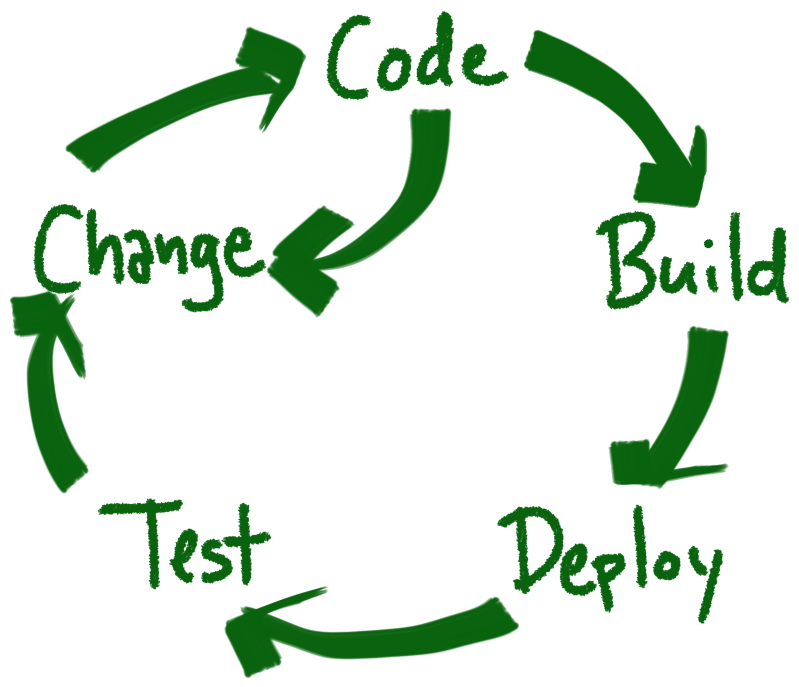
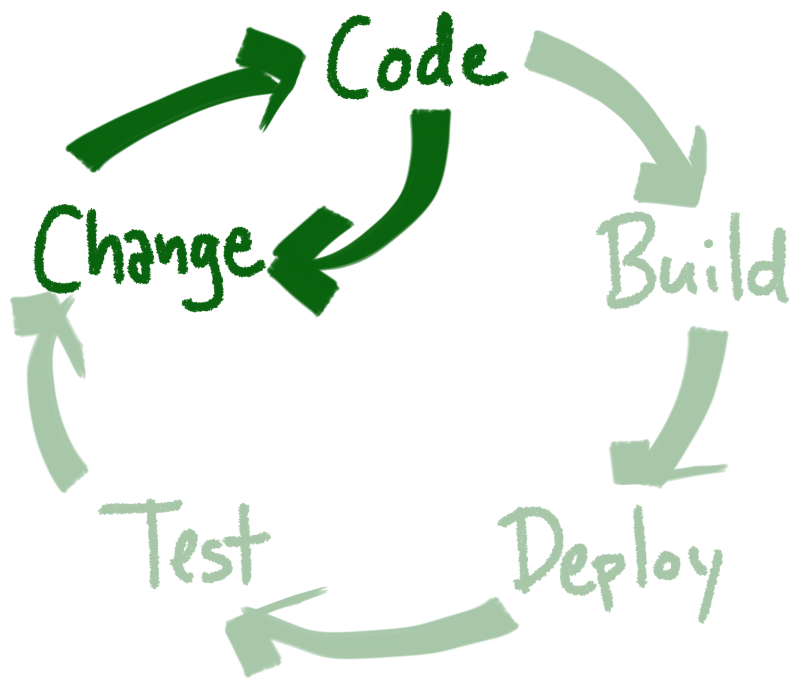
make loops look not awful

diff --git a/src/slides/02_feedback-loops.md b/src/slides/02_feedback-loops.md
@@ -5,10 +5,11 @@ class: title
 # Feedback Loops
 
 ---
-background-image: url(images/loops/general.png)
+class: loop
 
 # What is a feedback loop?
 
+![Feedback Loop](images/loops/general.png)
 ???
 Definition: blah blah blah you put an action in, see the effect, and keep doing that.
 
@@ -22,9 +23,11 @@ background-image: url(images/thermostat.jpg)
 The canonical example of a feedback loop is a thermostat.
 
 ---
-background-image: url(images/loops/thermostat.png)
+class: loop
 
 # The Thermostat
+
+![Thermostat](images/loops/thermostat.png)
 
 ???
 
@@ -38,9 +41,11 @@ background-image: url(images/kriskross.jpg)
 
 # Warm It Up Kris
 ---
-background-image: url(images/loops/thermostat.png)
+class: loop
 
 # The Thermostat
+
+![Thermostat](images/loops/thermostat.png)
 
 ???
 
@@ -55,9 +60,11 @@ background-image: url(images/vanilla-ice.jpg)
 # Stop! 
 
 ---
-background-image: url(images/loops/thermostat.png)
+class: loop
 
 # The Thermostat
+
+![Thermostat](images/loops/thermostat.png)
 
 ???
 
@@ -94,9 +101,11 @@ Maybe you don't recognize it by name, but you probably recognize it as the mecha
 that changes the gears on your bike when you click a button on the handlebars.
 
 ---
-background-image: url(images/loops/bike-general.png)
+class: loop
 
 # The bike tuning feedback loop
+
+![Thermostat](images/loops/bike-general.png)
 
 ???
 
@@ -105,9 +114,11 @@ To tune the derailleurs on your bike, there is a feedback loop.
 Simplified, it looks like this. 
  
 ---
-background-image: url(images/loops/bike-really.png)
+class: loop
 
 # The bike tuning feedback loop
+
+![Bike Loop](images/loops/bike-really.png)
 
 ???
 
@@ -116,9 +127,11 @@ A little less simplified, this is the loop.
 You turn a screw a quarter turn, and then you ride the bike 20 feet to see if everything is lined up.
  
 ---
-background-image: url(images/loops/bike-bad.png)
+class: loop
 
 # The bike tuning feedback loop
+
+![Bad](images/loops/bike-bad.png)
 
 ???
 
@@ -133,9 +146,11 @@ And if I get it back and find that it still doesn't shift well, I have to take i
 This is a loose, slow feedback loop.
 
 ---
-background-image: url(images/loops/bike-better.png)
+class: loop
 
 # The bike tuning feedback loop
+
+![Better](images/loops/bike-better.png)
 
 ???
 
@@ -150,9 +165,11 @@ Here, I see the results of each tuning in a much shorter time.
 But I still have to take my bike over to my neighbors house each cycle through the loop. 
 
 ---
-background-image: url(images/loops/bike-best.png)
+class: loop
 
 # The bike tuning feedback loop
+
+![Best!](images/loops/bike-best.png)
 
 ???
 
@@ -180,9 +197,11 @@ The tighter the loop, the quicker the feedback/your ability to react
 There are a couple of ways to do this.
 
 ---
-background-image: url(images/loops/bike-bad.png)
+class: loop
 
 # Tightening the Loop
+
+![Bad!](images/loops/bike-bad.png)
 
 todo - animate this to go from bigger to smaller.
 
@@ -193,9 +212,11 @@ One way is to make the arrows in the loop shorter.
 In my bike example, it meant eliminating trips to the bike shop or neighbors house.
 
 ---
-background-image: url(images/loops/dev-qa.png)
+class: loop
 
 # The Developer-QE feedback loop
+
+![Dev-QA Loop](images/loops/dev-qa.png)
 
 ???
 

diff --git a/src/slides/05_outro.md b/src/slides/05_outro.md
@@ -63,12 +63,12 @@ so the build server can actually do stuff
 ---
 class: title
 
-# Go grab a CI server and play around
+# Grab a CI server and play around
 
 ---
 class: title
 
-# Start the conversaton
+# Start the conversation
 
 ???
 
@@ -81,3 +81,30 @@ talk about the potential gains in investing someone's time
 
 ## TODO Links to free CI things
 
+---
+
+class: title
+
+# Thank you!
+
+
+.col.col-1[
+]
+
+
+.col.col-4.about[
+## Steven Hicks
+### <i class="el el-twitter"></i>  @pepopowitz
+### <i class="el el-globe-alt"></i>  pepopowitz.github.io
+### <i class="el el-envelope"></i>  steven.hicks@centare.com
+]
+
+.col.col-1[
+]
+
+.col.col-4.about[
+## Tyler Evert
+### <i class="el el-twitter"></i>  @TylerDoesDevOps
+### <i class="el el-globe-alt"></i>  thefoxgang.com
+### <i class="el el-envelope"></i>  tyler.evert@centare.com
+]

diff --git a/src/slides/04_devops.md b/src/slides/04_devops.md
@@ -17,7 +17,7 @@ The Three Ways, by Gene Kim
 Draw picture, basically this: http://itrevolution.com/the-three-ways-principles-underpinning-devops/
 
 ---
-class: full-screen-image
+class: full-screen-image, left-align
 background-image: url(images/startrek.png)
 
 # So what is it _really_?
@@ -47,9 +47,11 @@ Example: Intuit running turbotax experiments in production during tax season
 We've made the loop much longer, but we still want it to be fast. Enter automation....
 
 ---
-background-image: url(images/loops/devops.png)
+class: loop
 
 # The DevOps feedback loop
+
+![DevOps Loop](images/loops/devops.png)
 
 ???
 

diff --git a/src/slides/03_tdd.md b/src/slides/03_tdd.md
@@ -1,7 +1,9 @@
 ---
-background-image: url(images/loops/dev-qa.png)
+class: loop
 
 # The Developer-QE feedback loop
+
+![Dev-QA Loop](images/loops/dev-qa.png)
 
 ???
 
@@ -10,11 +12,11 @@ Here's our first suggestion.
 What if we told you there was a shortcut on this loop?
 
 ---
-background-image: url(images/loops/tdd-shortcut.png)
+class: loop
 
 # The Developer-QE feedback loop
 
-TODO - animate most of loop to fade away
+![Dev-QA Loop (shortcut)](images/loops/tdd-shortcut.png)
 
 ???
 

diff --git a/src/slides/01_intro.md b/src/slides/01_intro.md
@@ -28,7 +28,7 @@ class: title
 ---
 class: middle
 
-.col.col-4[
+.col.col-4.left-align[
 # Steven Hicks
 
 ## Rides Bikes
@@ -49,7 +49,7 @@ class: middle
 ![Me](images/tyler.png)
 ]
 
-.col.col-4[
+.col.col-4.left-align[
 # Tyler Evert
 
 ## Travels
